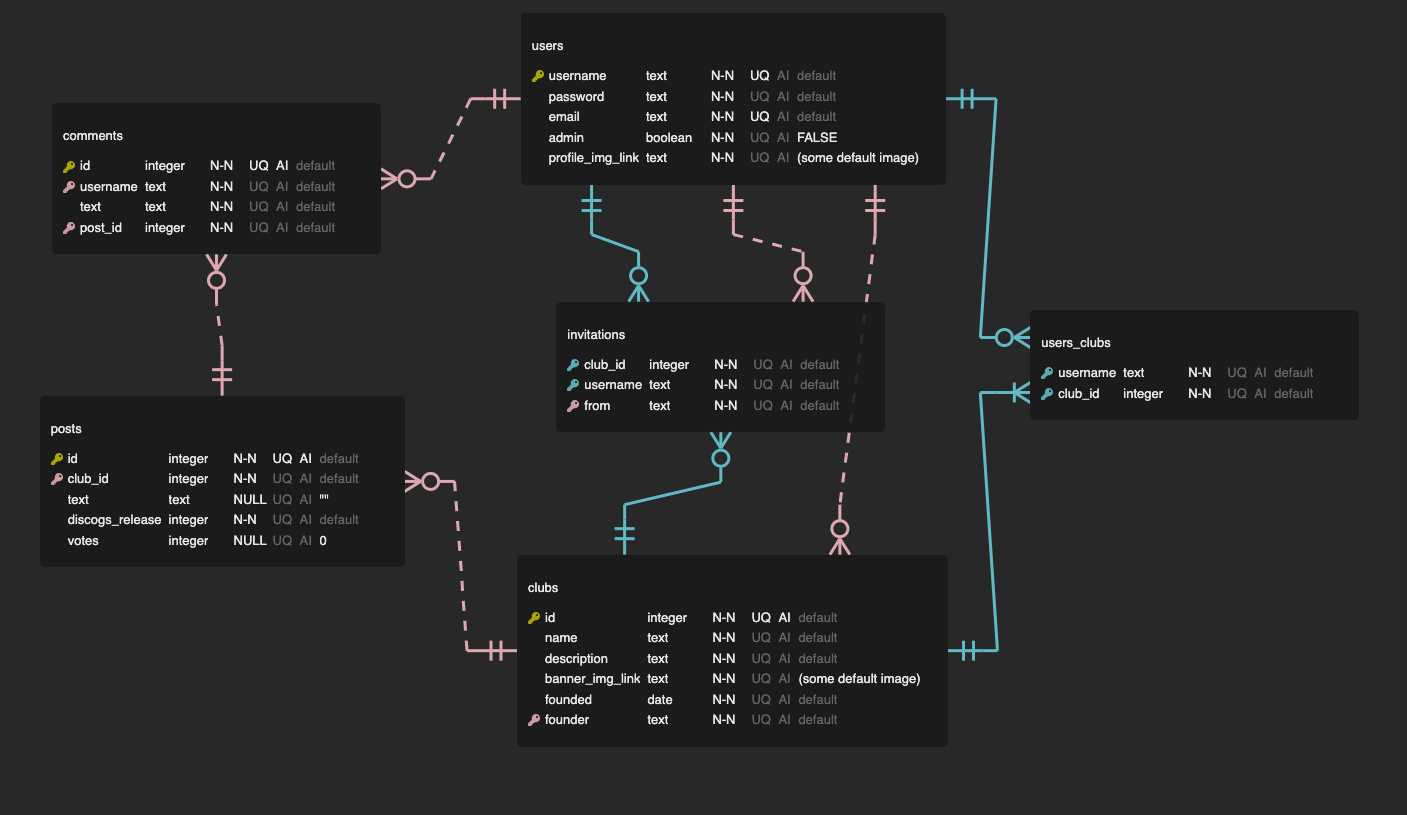
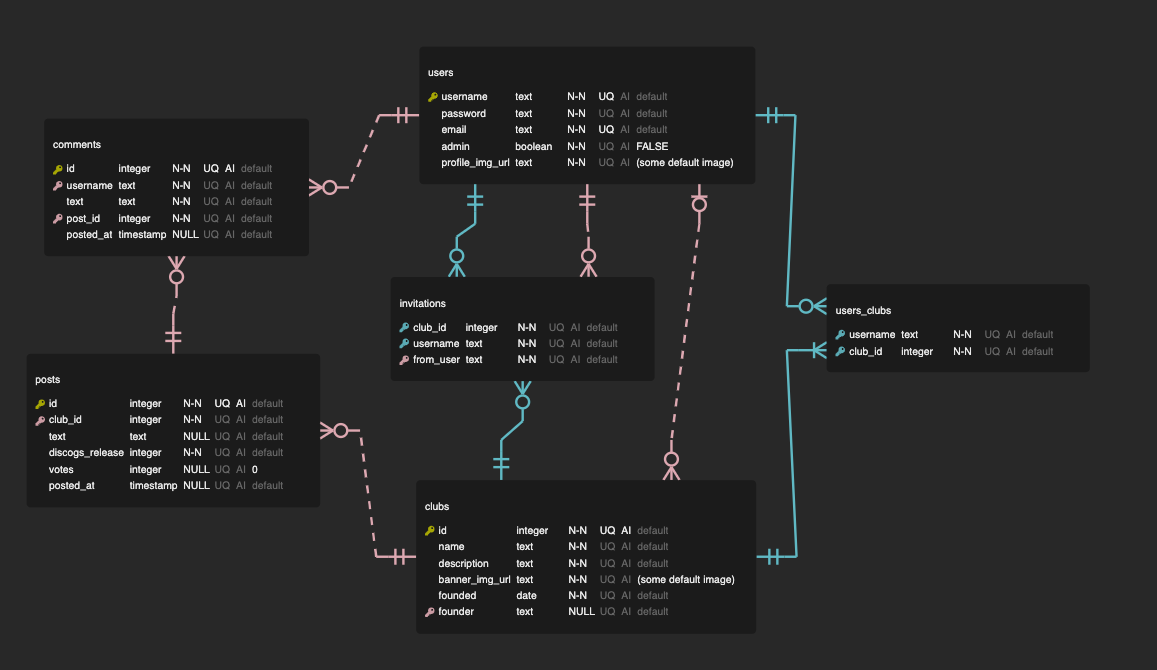
Proposal finished, started database

diff --git a/proposal.md b/proposal.md
@@ -1,0 +1,139 @@
+1. What tech stack will you use for your final project?
+
+    Frontend: React + React Router
+
+    Backend: Express, PostgreSQL
+
+2. Is the front-end UI or the back-end going to be the focus of your project? Or are you going to make an evenly focused full-stack application?
+
+    I believe this will be an evenly focused application. I want this to have a clean and easy-to-use UI, preferably as a single-page app with React Router. And I think there are potentially some interesting things I could do with displaying the clubs and user posts. But the backend will be powering the user-interaction features of the app, such as joining clubs, creating posts and comments, and voting on posts, so it will be very important to the app.
+
+3. Will this be a website? A mobile app? Something else?
+
+    This will be a website.
+
+4. What goal will your project be designed to achieve?
+
+    The goal of this project is to create an easy way to share music recommendations with friends, outside of platforms like Spotify or Apple Music. Users create "clubs" that they can invite their friends (who have accounts) to. Then, any user in that club can post recommendations for albums or singles that they think other users in the group should listen to. The other members of the club can comment and upvote or downvote each recommendation. The result is, ideally, a "music club", where you're sharing music with your friends and interacting with their recommendations. Users will be able to find exciting new music to listen to via their friends' recommendations. Users will be able to join multiple clubs, also, if they'd like!
+
+5. What kind of users will visit your app? In other words, what is the demographic of
+your users?
+
+    Anyone who loves music can visit my app, and I know music lovers of all ages! That being said, people who are actively seeking out new music tend to be somewhere from teenagers to age 35 according to data, so it's probable that my app would be used mostly by teenagers and younger adults. 
+
+6. What data do you plan on using? How are you planning on collecting your data?
+You may have not picked your actual API yet, which is fine, just outline what kind of data you would like it to contain.
+
+    The data I plan to use will come from a database of music releases (right now, planning on using Discogs.com). The data I need on each release for a user to post a recommendation is not too in-depth - at minimum, the artist who made it and the title of the album or song. Ideally, with an image of the album cover art, the year of release, and a genre. I don't need the API to provide a link to listen to it at the moment, as the app is not intended for the user to actually listen to this music via the app, just get a recommendation for something to listen to in their medium of choice. And even if I did, it's possible this would not need to come from an API, the user could insert their own link.
+
+7. In brief, outline your approach to creating your project (knowing that you may not
+know everything in advance and that these details might change later). Answer questions like the ones below, but feel free to add more information:
+    1. What does your database schema look like?
+
+        ![schema](schema.png)
+
+        Tables:
+
+        - users
+            - Tracking all user data
+            - username
+            - password (Stored as a hash)
+            - email (Not used in minimum viable, but I'd like to have it on file for future features)
+            - admin (Is the user an admin or not?)
+            - profile_img_url (Users will all get profile images to identify their posts)
+        - clubs
+            - Stores info about each club
+            - id
+            - name
+            - description
+            - banner_img_url (Each club will display a banner at the top as an identifying image)
+            - founded (The date a club was founded on)
+            - founder (References users)
+        - users_clubs
+            - Relationship table linking users to the clubs they belong to
+            - username (References users)
+            - club_id (References clubs)
+        - invitations
+            - Table tracking invitations from one user to another to join their club
+            - username (The invited user, references users)
+            - club_id (References clubs)
+            - from_user (The user who invited, references users)
+        - posts
+            - "Posts" are the recommendation posts users will make in a club
+            - id
+            - club_id (Which club the post was in, references clubs)
+            - text (The body of the post if the user added one)
+            - discogs_release (A reference number to the id of the release in the discogs database, to get info about the music being recommended. This could change if my API changes)
+            - votes (Tracking the number of votes the post has in the club - this can be a negative number if only/mostly downvotes!)
+            - posted_at (Time of post)
+            - rec_tracks (An optional set of recommended tracks, typed in by the user)
+        - comments
+            - Comments on individual posts
+            - id
+            - username (the user commenting, references users)
+            - text (the body of the comment)
+            - post_id (the post that the comment is on, references posts)
+            - posted_at (Time of post)
+
+    2. What kinds of issues might you run into with your API? This is especially
+  important if you are creating your own API, web scraping produces
+  notoriously messy data.
+
+        I'm not anticipating many issues with this API, as it's a database of music releases which is what I'm pretty sure I want. The authorization looks like it might be a little trickier than some other APIs I've worked with, though, so I'll have to make sure I figure out a good way to implement that in my app.
+
+        The only other concern I have about this API is that it's album-focused, and my users might want to recommend individual songs. I'll have to make it clear that you need to recommend albums. Actually, I just decided to allow users to list recommended tracks based on this. I know Discogs will have all of the other data I want, especially genre tags which I really want for organizing recommendations. So, I'm sticking with it for the MVP of this project.
+
+    3. Is there any sensitive information you need to secure?
+
+        User passwords, mainly. I'll collect user emails also but I'm not currently planning on surfacing that information.
+
+        I'll want to hide backend keys also, like a secret key for signing user tokens and the API key for Discogs. I plan on using .env files like we learned to hold these values.
+
+    4. What functionality will your app include?
+
+        - Register and login to your account
+        - Create and join music clubs
+        - Edit clubs you've founded by changing their banner, name, or description
+        - Post recommendations to those clubs
+        - View all recommended music in your clubs (stretch goal - filter and sort recommendations)
+        - Navigate between different clubs
+        - Invite other users to your clubs, and accept invitations from other users to join theirs
+        - Click on recommendations for more details
+        - Upvote or downvote recommendations
+        - Comment on recommendations, and edit and delete your comments
+        - Edit your profile picture
+
+    5. What will the user flow look like?
+
+        Basic flow:
+
+        1. Create an account
+        2. Create or join (via invitation from another user) a club
+        3. Navigate to your club from the nav bar
+        4. Post a recommendation
+            1. Search for a music release that is from the Discogs database. Users can search by artist and title.
+            2. Select the release you were looking for
+            3. Add a comment if you would like
+            4. Post to the club
+        5. Invite people to your club
+            1. Click "invite user" from the club page to show the invitation view
+            2. Search for usernames from the database
+            3. Select a user to invite and send invitation
+            4. User on the other end will see a badge in the nav bar indicating they have an invite next time they log in or reload the page.
+            5. Click "invites" in the navigation to see a list of all invitations.
+            6. Accept or dismiss any invitation in the list.
+            7. Any clubs you join will now appear in the navigation.
+        6. View recommendations
+            1. Main page of a club will have a list of recommendations, showing votes and the number of comments. Click an up or down arrow from this view to upvote or downvote the recommendation.
+            2. Click a recommendation to open a detail page for that post. Here, users can see all details on the music, and view and add comments. Users can also delete or edit their existing comments.
+
+    6. What features make your site more than a CRUD app? What are your
+stretch goals?
+
+        The user interaction features are what make the site more than a CRUD app. Clubs and posts are largely CRUD-based, but voting and commenting on posts adds another dimension. Inviting and joining clubs also pushes the scope just a little bit beyond CRUD, since I'll need to implement some permissions so that users only see clubs that they've joined.
+
+        My main stretch goal is to expand the features that are based on the music posted in a club. Being able to sort the list of posts by something other than the order they are in would be an easy one - maybe alphabetically, or by year of release. Maybe also filtering them by genre or by who posted them. If I really have time, I'd really like to be able to show some stats about the posts in a club, like how many posts each user has, what genres have been posted, what decades the posts are in, etc. I think that would be a cool bit of analysis to display for groups with a lot of posts.
+
+        The other thing I'm thinking is that I might want to split clubs between private and public - for users who don't have friends using the app, it would be a lonely place if all clubs were private! Because this would require some additional UI, I'm leaving it as a stretch goal for now, but I may end up implementing it just because it will be an easy way to show the functionality of the app in the future.
+
+
